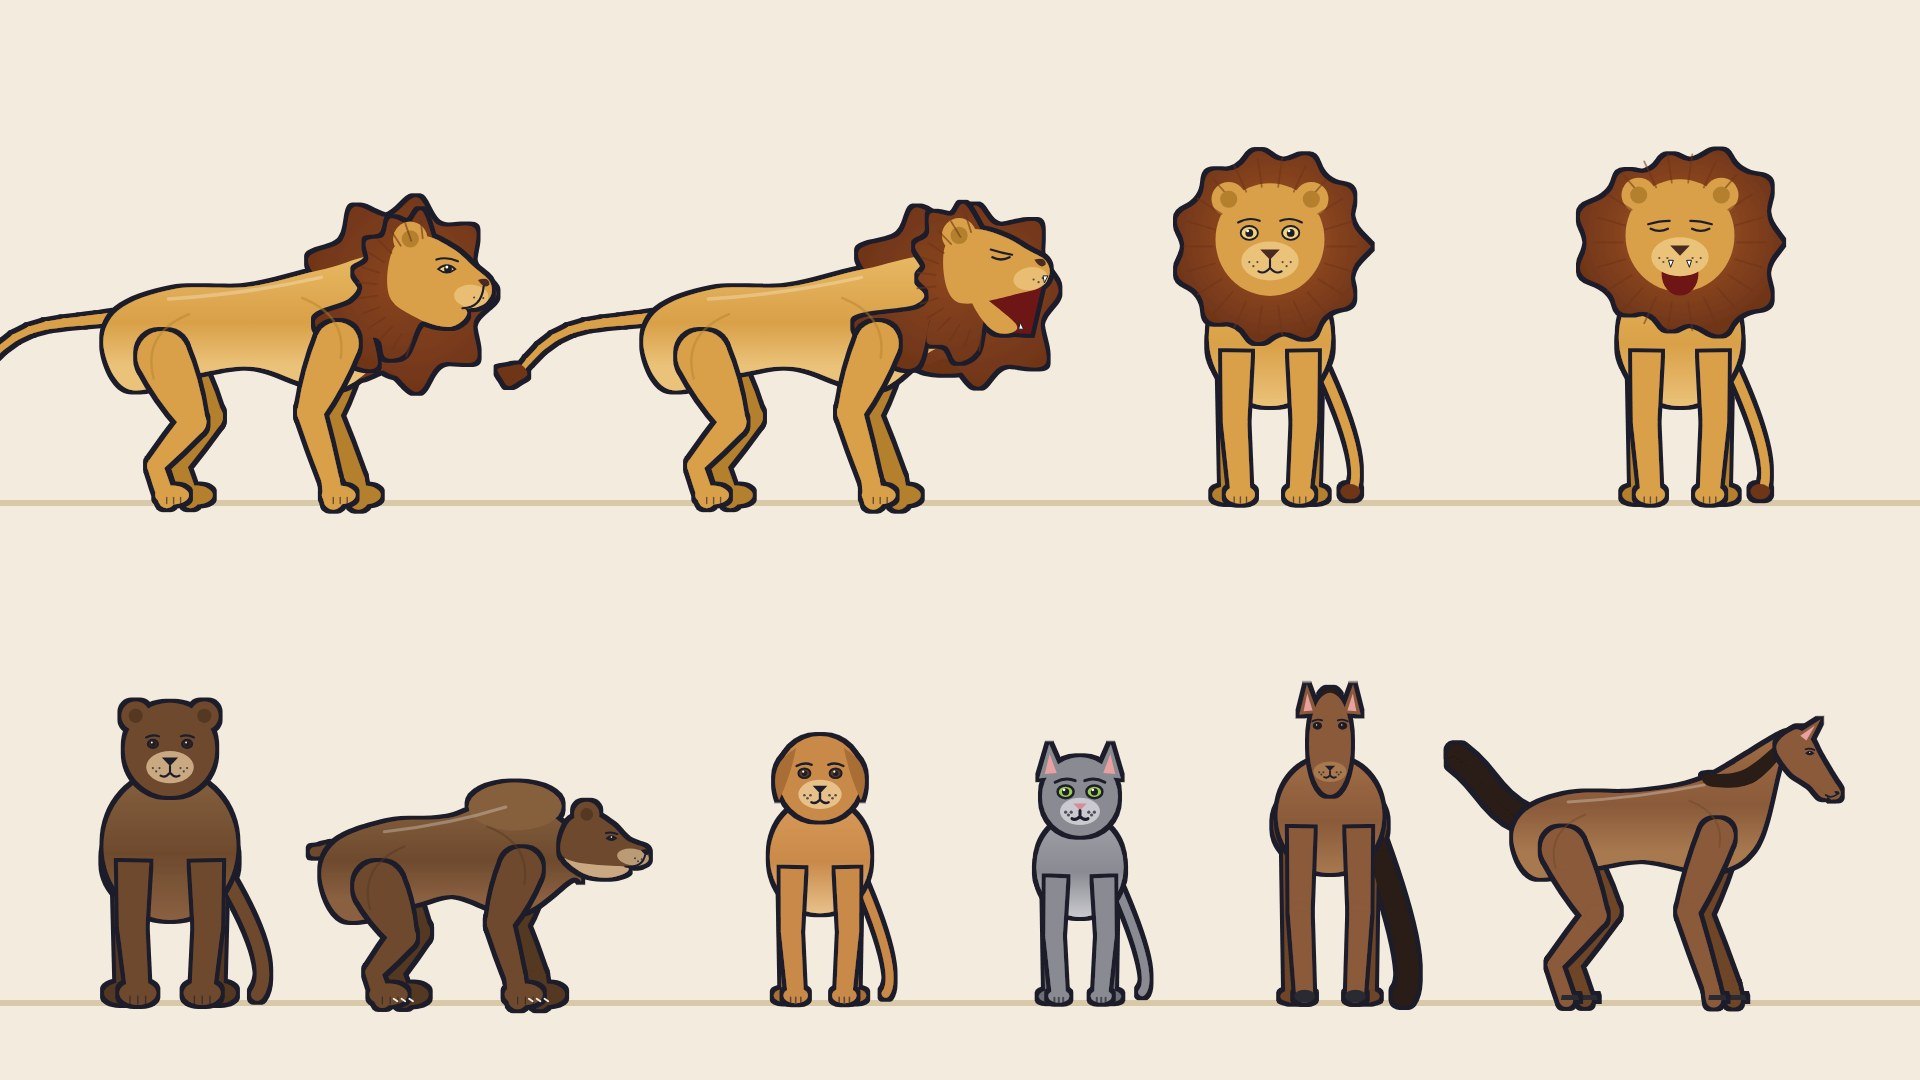
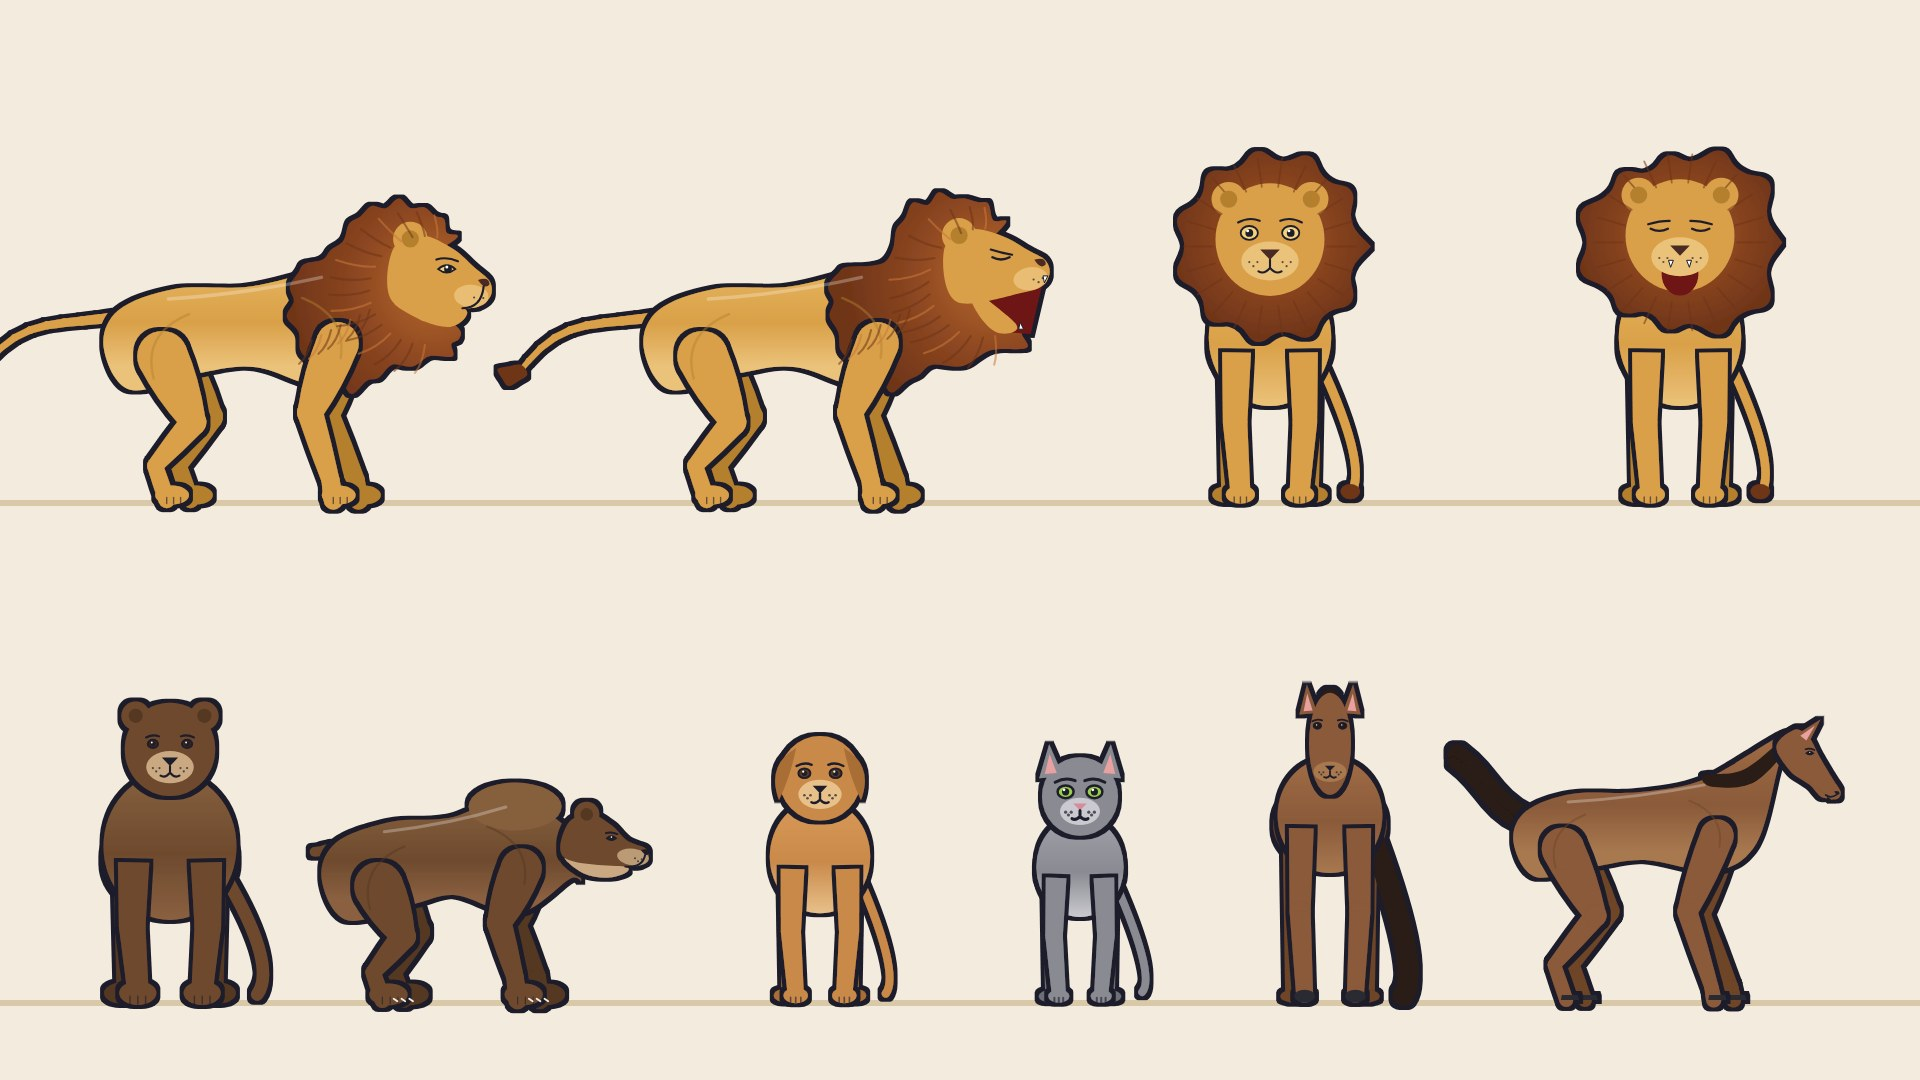
animacao-animal: juba de lado vira uma massa só (testa, cabeça, nuca, pescoço, ombro e peito) com borda fofa e mechas
Claude-Session: https://claude.ai/code/session_01SN2MqLtQyQDYePNiVob9yY

Changed region(s): [[0.4062, 0.1528, 0.5625, 0.3667], [0.125, 0.1833, 0.25, 0.3667]]

diff --git a/.claude/skills/animacao-animal/assets/animal.js b/.claude/skills/animacao-animal/assets/animal.js
@@ -248,22 +248,41 @@
       let longe = pernaSVG(L[1], 1, E.longe) + pernaSVG(L[3], 3, E.longe) + cauda;
       // camada do corpo + cabeça
       let corpo = '';
-      if (E.juba) {   // juba: nuvem de mechas atrás da cabeça e descendo pelo peito; balança com atraso
-        const jc = hp([-0.35, 0.18]);
-        const nuvem = (R, n, fase, esc = 1) => curva([...Array(n * 2)].map((_, k) => { const a = k / (n * 2) * Math.PI * 2, bal = Math.sin(t * 5 + fase - k * 0.8) * (0.03 + 0.12 * C.rugir); const rr = R * (k % 2 ? 0.86 : 1.08) * (1 + bal); return [jc[0] + Math.cos(a) * rr * dir * 0.95, jc[1] + Math.sin(a) * rr * esc]; }));
-        corpo += `<path d="${curva([hp([-0.6, 0.0]), hp([0.1, 1.4]), W([S[0] + 0.7 * pr, S[1] + 0.7 * pry]), W([S[0] - 0.1 * pr, S[1] - 0.4 * pry])])}" fill="${E.jubaLonge}"/>`;
-        corpo += `<path d="${nuvem(r * 1.62, 9, 0)}" fill="url(#${id}j)"/>`;
-      }
       corpo += `<path d="${curva(corpoPts)}" fill="url(#${id}c)"/>`;
       if (E.corcova) corpo += `<ellipse cx="${f(X(S[0] - 0.1 * pr))}" cy="${f(S[1] - 0.85 * pry)}" rx="${f(0.75 * pr)}" ry="${f(0.42 * pry)}" fill="${E.claro || E.cor}"/>`;
       if (E.crina) corpo += `<path d="${curva([hp([-0.55, -0.62]), W([(S[0] + Hc[0]) / 2 - 20 * s, (S[1] + Hc[1]) / 2 - 34 * s]), W([S[0] - 0.25 * pr, S[1] - 1.05 * pry]), W([S[0] - 0.1 * pr, S[1] - 0.8 * pry]), W([(S[0] + Hc[0]) / 2, (S[1] + Hc[1]) / 2 - 12 * s]), hp([-0.3, -0.45])])}" fill="${E.crina}"/>`;
       let cab = '';
-      if (E.juba) {   // juba do lado de cá: envolve o rosto (testa, nuca, bochecha, queixo) e desce pelo pescoço até o peito
-        const ang = a => a * Math.PI / 180, cen = [0.12, 0.08];
-        const ext = [];
-        for (let a = -98, k = 0; a >= -262; a -= 12, k++) { const bal = Math.sin(t * 5 - k * 0.7) * (0.03 + 0.1 * C.rugir); const rr = (k % 2 ? 1.18 : 1.36) * (1 + bal); ext.push(hp([cen[0] + Math.cos(ang(a)) * rr, cen[1] + Math.sin(ang(a)) * rr])); if (a === -194) { ext.push(W([S[0] - 0.35 * pr, S[1] - 0.1 * pry])); ext.push(W([S[0] + 0.15 * pr, S[1] + 0.55 * pry])); ext.push(W([S[0] + 0.62 * pr, S[1] + 0.62 * pry])); } }
-        for (let a = 100; a >= -95; a -= 25) ext.push(hp([cen[0] + Math.cos(ang(a)) * 0.6, cen[1] + Math.sin(ang(a)) * 0.6]));
-        cab += `<path d="${curva(ext)}" fill="url(#${id}j)"/>`;
+      if (E.juba) {   // juba de lado: UMA massa de pelo que sai da testa, cobre o alto da cabeça, a nuca, o pescoço, o ombro e o peito; o rosto fica para fora
+        const cres = 1 + 0.08 * C.rugir;
+        const chave = [   // contorno de fora (cabeça em unidades de r; corpo em pontos do mundo)
+          hp([0.5, -0.8]), hp([0.15, -1.22 * cres]), hp([-0.5, -1.38 * cres]), hp([-1.15, -1.12 * cres]), hp([-1.55, -0.45 * cres]),
+          W([S[0] - 0.62 * pr, S[1] - 0.92 * pry]), W([S[0] - 0.72 * pr, S[1] - 0.2 * pry]), W([S[0] - 0.4 * pr, S[1] + 0.6 * pry]),
+          W([S[0] + 0.25 * pr, S[1] + 1.02 * pry]), W([S[0] + 0.85 * pr, S[1] + 0.62 * pry]), hp([0.55, 1.15 * cres]), hp([0.7, 0.72])
+        ];
+        // borda ondulada e fofa: densifica o contorno e alterna pequenas saliências arredondadas (animadas)
+        const cen = hp([-0.5, 0.25]);
+        const ond = [];
+        for (let i = 0; i < chave.length - 1; i++) {
+          const A0 = chave[i], A1 = chave[i + 1];
+          for (let k = 0; k < 3; k++) {
+            const u = k / 3, q = [lerp(A0[0], A1[0], u), lerp(A0[1], A1[1], u)];
+            const dx = q[0] - cen[0], dy = q[1] - cen[1], dd = Math.hypot(dx, dy) || 1, n = ond.length;
+            const amp = (n % 2 ? -0.01 : 0.09) * r * (1 + 0.6 * Math.sin(t * 4 - n * 0.9) * (0.25 + C.rugir));
+            ond.push([q[0] + dx / dd * amp, q[1] + dy / dd * amp]);
+          }
+        }
+        ond.push(chave[chave.length - 1]);
+        // borda de dentro (fica escondida atrás do rosto)
+        [[0.25, 0.4], [-0.1, 0.0], [0.15, -0.5]].forEach(q => ond.push(hp(q)));
+        cab += `<defs><radialGradient id="${id}jm" gradientUnits="userSpaceOnUse" cx="${f(hp([0.2, 0])[0])}" cy="${f(hp([0.2, 0])[1])}" r="${f(r * 2.6)}"><stop offset="0" stop-color="${E.jubaClara || '#B8692E'}"/><stop offset=".55" stop-color="${E.juba}"/><stop offset="1" stop-color="${E.jubaLonge}"/></radialGradient></defs>`;
+        cab += `<path d="${curva(ond)}" fill="url(#${id}jm)"/>`;
+        this._jubaMechas = [];   // mechas: da borda do rosto para fora, seguindo o pelo (para trás e para baixo)
+        for (let k = 0; k < 16; k++) {
+          const a = (-80 - k * 13) * Math.PI / 180, bal = Math.sin(t * 4 - k * 0.6) * (0.04 + 0.12 * C.rugir);
+          const ini = hp([0.05 + Math.cos(a) * 0.95, 0.1 + Math.sin(a) * 0.95]), fim = hp([-0.15 + Math.cos(a + bal) * 1.45, 0.15 + Math.sin(a + bal) * 1.4]);
+          this._jubaMechas.push([ini, fim]);
+        }
+        for (let k = 0; k < 7; k++) { const u = k / 6, ini = W([lerp(S[0] + 0.5 * pr, S[0] - 0.4 * pr, u), lerp(S[1] - 0.3 * pry, S[1] + 0.2 * pry, u)]); this._jubaMechas.push([ini, [ini[0] - dir * 18 * s, ini[1] + 34 * s]]); }
       }
       // orelha de trás da cabeça (atrás do crânio)
       const ore = CB.orelha, oP = CB.orelhaP;
@@ -299,7 +318,7 @@
       if (pisca || C.rugir > 0.6) d += `<path d="M${P([ol[0] - ow, ol[1]])} q${f(ow)} ${f(ow * 0.5)} ${f(ow * 2)} 0" stroke="${T}" stroke-width="${f(3.5 * s)}" fill="none" stroke-linecap="round"/>`;
       else d += `<path d="M${P([ol[0] - ow, ol[1]])} Q${P([ol[0], ol[1] - ow * 0.9])} ${P([ol[0] + ow, ol[1]])} Q${P([ol[0], ol[1] + ow * 0.8])} ${P([ol[0] - ow, ol[1]])}Z" fill="${CB.corOlho || '#F2D27A'}" stroke="${T}" stroke-width="${f(2.5 * s)}"/><circle cx="${f(ol[0] + dir * ow * 0.15)}" cy="${f(ol[1])}" r="${f(ow * 0.45)}" fill="${T}"/><circle cx="${f(ol[0])}" cy="${f(ol[1] - ow * 0.25)}" r="${f(ow * 0.18)}" fill="#FFF"/>`;
       d += `<path d="M${P([ol[0] - dir * ow * 1.2, ol[1] - ow * (1.1 - C.rugir * 0.2)])} Q${P([ol[0], ol[1] - ow * (1.5 - C.rugir)])} ${P([ol[0] + dir * ow * 1.3, ol[1] - ow * (0.9 - C.rugir * 0.6)])}" stroke="${T}" stroke-width="${f(3 * s)}" fill="none" stroke-linecap="round"/>`;
-      if (E.juba) d += [...Array(13)].map((_, k) => { const a = (-100 - k * 13) * Math.PI / 180, c0 = hp([0.12 + Math.cos(a) * 0.9, 0.08 + Math.sin(a) * 0.9]), c1 = hp([0.12 + Math.cos(a) * 1.22, 0.08 + Math.sin(a) * 1.22]); return `<path d="M${P(c0)} L${P(c1)}" stroke="${E.jubaLonge}" stroke-width="${f(2.5 * s)}" opacity=".6" stroke-linecap="round"/>`; }).join('');
+      if (E.juba && this._jubaMechas) d += this._jubaMechas.map(([p0, p1], k) => `<path d="M${P(p0)} Q${P([(p0[0] + p1[0]) / 2 + dir * 4 * s, (p0[1] + p1[1]) / 2 + 6 * s])} ${P(p1)}" stroke="${k % 3 ? E.jubaLonge : '#C8783A'}" stroke-width="${f(3 * s)}" fill="none" opacity=".55" stroke-linecap="round"/>`).join('');
       this.det.innerHTML = d;
       this._boca = hp(prof[5]);
     }
